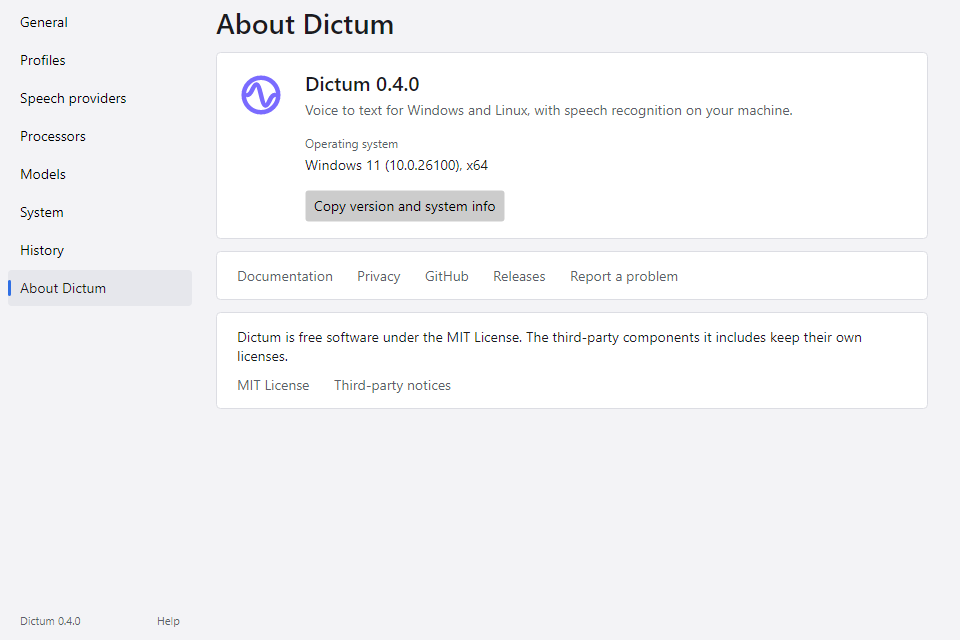
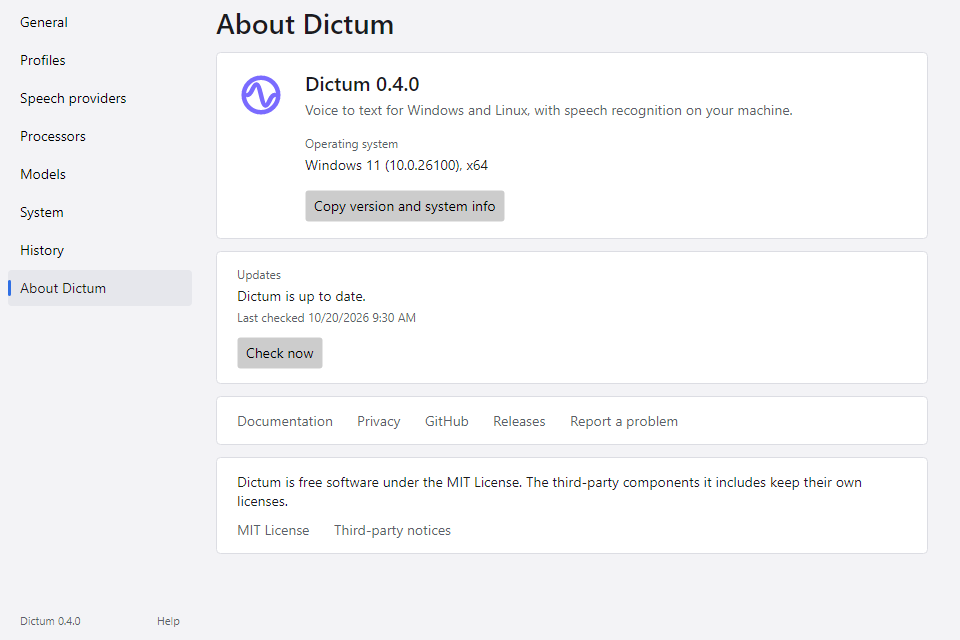
docs: screenshots regenerated after General gained "Check for updates" and About Dictum its Updates part, which the shots show as up to date, last checked this morning

diff --git a/tests/Dictum.App.Tests/Docs/ScreenshotTests.cs b/tests/Dictum.App.Tests/Docs/ScreenshotTests.cs
@@ -17,6 +17,8 @@ using Dictum.App.Resources;
 using Dictum.App.Settings;
 using Dictum.App.Tests.Settings;
 using Dictum.App.Tests.Setup;
+using Dictum.App.Tests.Updates;
+using Dictum.App.Updates;
 using Dictum.App.ViewModels;
 using Dictum.App.ViewModels.Settings;
 using Dictum.App.ViewModels.Setup;
@@ -270,6 +272,7 @@ public sealed class ScreenshotTests(AvaloniaFixture fx)
         private readonly TempDirectory _dir = new();
         private readonly ManualClock _clock = new(Today(10, 2));
         private readonly FrameHub _frames;
+        private UpdateChecker? _updates;
 
         public SettingsWorld(string language, bool speechModel = true)
         {
@@ -350,7 +353,7 @@ public sealed class ScreenshotTests(AvaloniaFixture fx)
             var history = new HistoryPage(session, Paths.HistoryFile, new NoClipboard(), Runner, NullLog.Instance);
             var about = new AboutPage(new AboutServices(
                 SettingsViewModel.AppVersion(), ShownSystem, "win-x64", null, () => Task.FromResult(Hardware), new NoClipboard(), (_, _) => { }, _ => { },
-                NullLog.Instance));
+                NullLog.Instance, Updates()));
             return
             [
                 (SettingsPageKey.General, general),
@@ -384,7 +387,28 @@ public sealed class ScreenshotTests(AvaloniaFixture fx)
 
         public string Display(string path) => DisplayPath(path, Root);
 
-        public void Dispose() => _dir.Dispose();
+        public void Dispose()
+        {
+            _updates?.Dispose();
+            _dir.Dispose();
+        }
+
+        /// <summary>The update check as About Dictum shows it: this version is the newest, checked this morning.</summary>
+        private UpdateChecker Updates()
+        {
+            if (_updates is null)
+            {
+                var version = SettingsViewModel.AppVersion();
+                var file = new UpdateCheckFile(Paths.UpdateCheckFile, NullLog.Instance);
+                file.Save(new UpdateCheckState
+                {
+                    LastChecked = Today(9, 30), Latest = version, Page = FakeReleases.Page("v" + version).AbsoluteUri,
+                });
+                _updates = new UpdateChecker(new FakeReleases(), file, new ManualTimers(), _clock, version, NullLog.Instance);
+            }
+
+            return _updates;
+        }
 
         private static DaemonLink Linked() => new(DaemonLinkState.Connected, new DaemonStatus(
             nameof(PipelineState.Idle), null,
